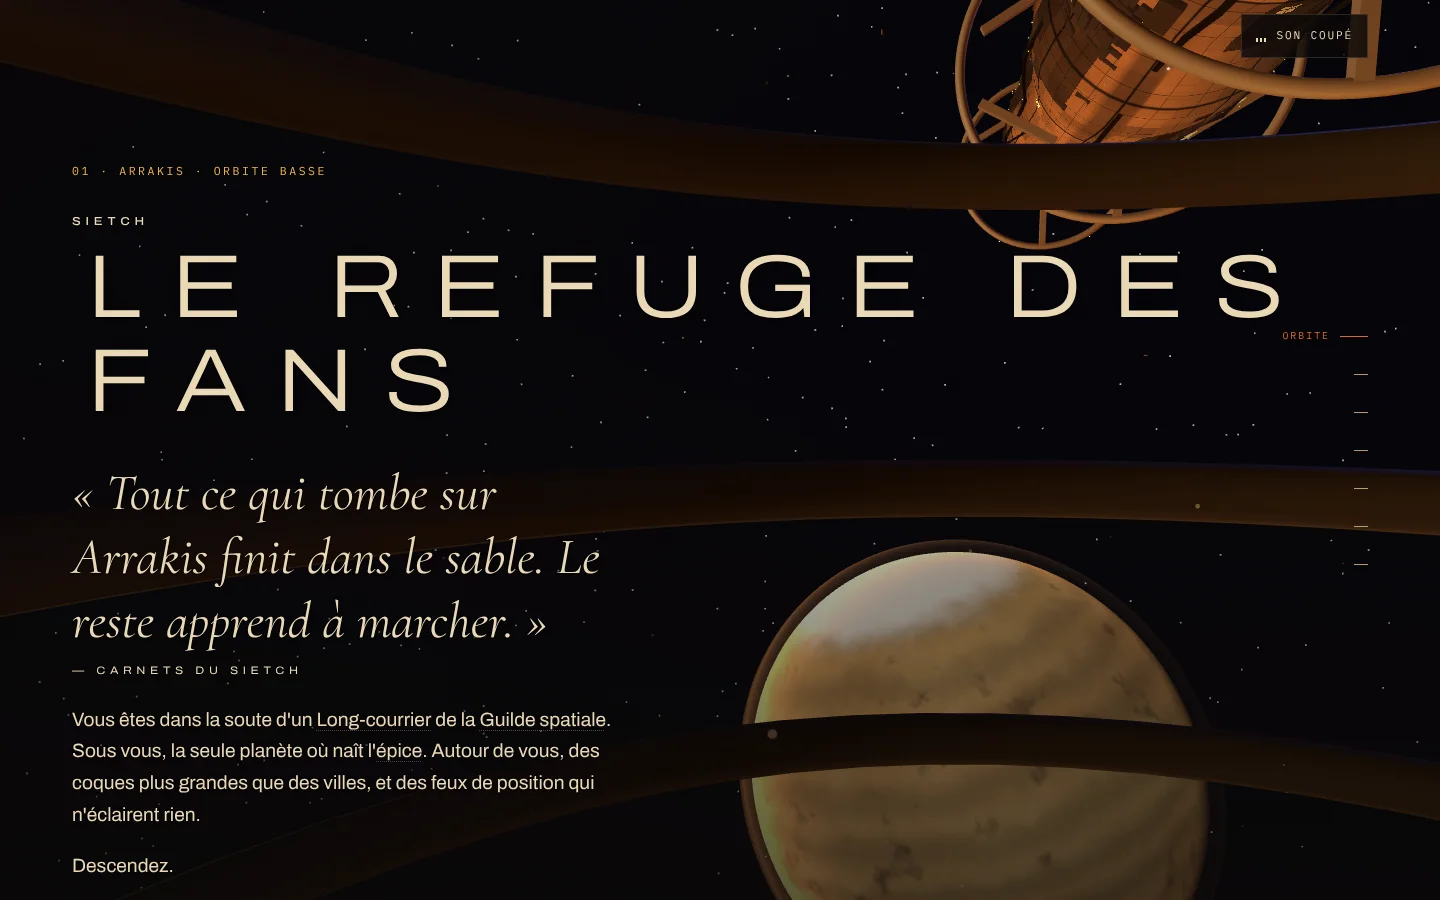
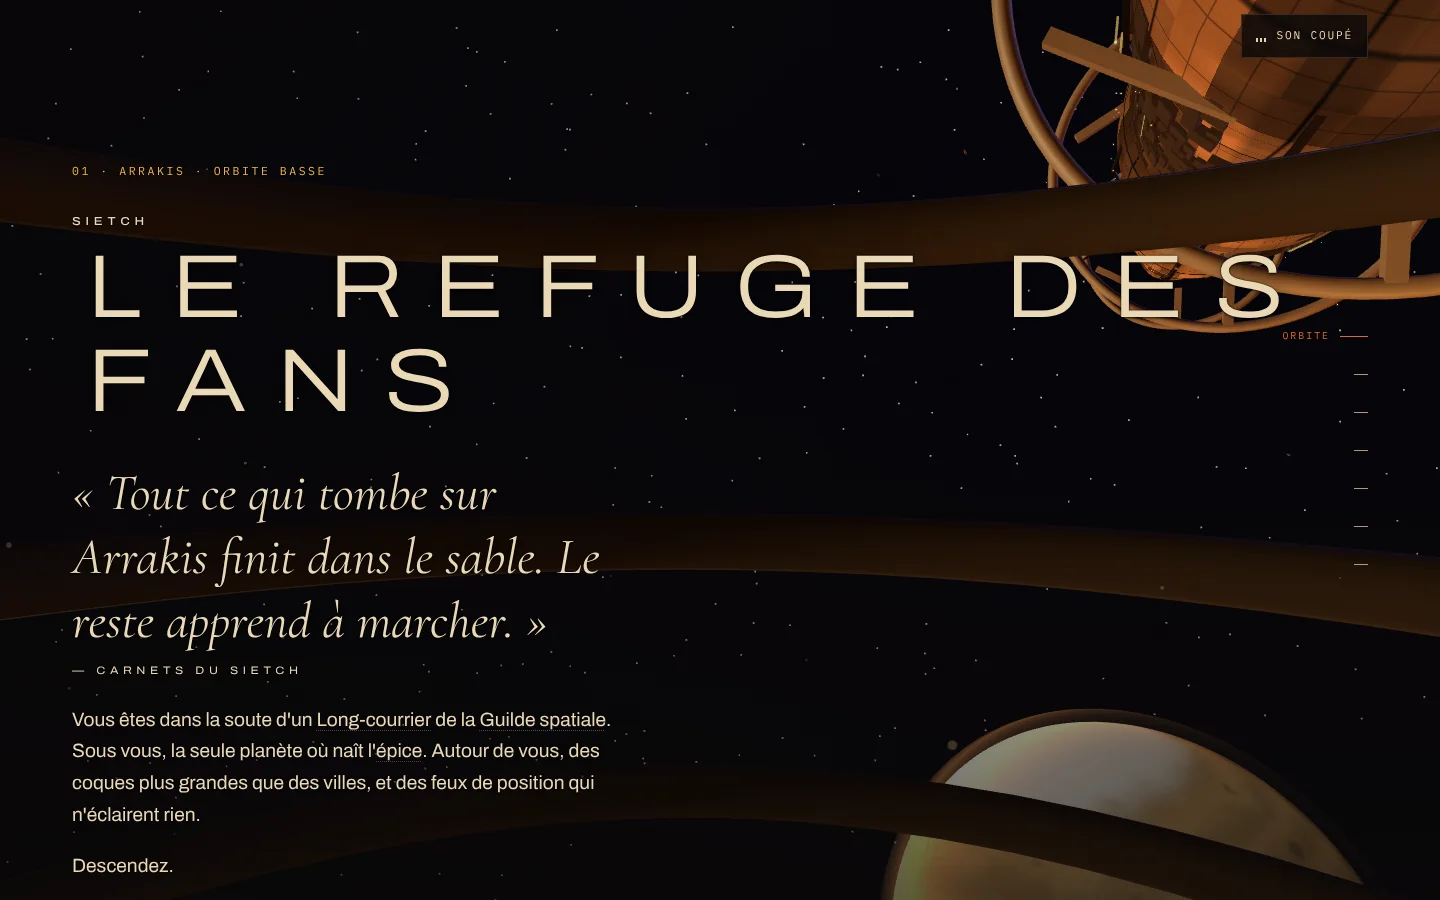
long-courrier (C2, lot 1, final) : caméra rapprochée de la coque (32 unités sous l'axe), fuseau monumental en haut à droite (bureau) et dans la bande au-dessus du titre (portrait), planète plus basse, regard qui remonte dès le début de la sortie ; allègements : coque à une octave de bruit, feux plaf
Claude-Session: https://claude.ai/code/session_01TmTFqFyVjB4u53bqWWJJJg

Changed region(s): [[0.5, 0.5289, 1.0, 1.0], [0.4062, 0.0, 1.0, 0.3733]]

diff --git a/src/world/createWorld.ts b/src/world/createWorld.ts
@@ -197,27 +197,32 @@ export function createWorld(canvas: HTMLCanvasElement, { tier }: WorldOptions): 
   collar.position.x = (T_BAY - 0.5) * SHIP_L;
   collar.rotation.y = Math.PI / 2;
   ship.add(collar);
-  const plotGeo = keep(new THREE.BoxGeometry(2.4, 1.4, 2.2));
+  const plots = new THREE.InstancedMesh(keep(new THREE.BoxGeometry(2.4, 1.4, 2.2)), collarMat, 12);
   for (let k = 0; k < 12; k++) {
     const a = (k / 12) * Math.PI * 2 + 0.26;
-    const plot = new THREE.Mesh(plotGeo, collarMat);
-    plot.position.set(collar.position.x, Math.cos(a) * (collarR + 1.6), Math.sin(a) * (collarR + 1.6));
-    plot.rotation.x = -a;
-    ship.add(plot);
+    dummy.position.set(collar.position.x, Math.cos(a) * (collarR + 1.6), Math.sin(a) * (collarR + 1.6));
+    dummy.rotation.set(-a, 0, 0, "XYZ");
+    dummy.scale.setScalar(1);
+    dummy.updateMatrix();
+    plots.setMatrixAt(k, dummy.matrix);
   }
-  // Mâts et antennes : fines tiges radiales, un feu blanc à éclats à leur sommet (ajouté aux feux plus bas).
+  plots.instanceMatrix.needsUpdate = true;
+  ship.add(plots);
+  // Mâts et antennes : fines tiges radiales (un seul appel de dessin), un feu blanc à éclats à leur sommet.
   const masts: [number, number, number][] = [[0.17, 0.9, 9], [0.26, 3.6, 12], [0.4, 5.2, 7], [0.52, 1.9, 14], [0.63, 0.3, 8], [0.74, 4.2, 11], [0.86, 2.6, 6], [0.46, 3.0, 5]];
-  const mastGeo = keep(new THREE.BoxGeometry(0.3, 1, 0.3));
+  const mastMesh = new THREE.InstancedMesh(keep(new THREE.BoxGeometry(0.3, 1, 0.3)), railMat, masts.length);
   const mastTips: number[] = [];
-  for (const [t, a, h] of masts) {
+  masts.forEach(([t, a, h], k) => {
     const base = hullR(t) + 1.5 * Math.sin(40 * t) * Math.sin(Math.PI * t);
-    const mast = new THREE.Mesh(mastGeo, railMat);
-    mast.position.set((t - 0.5) * SHIP_L, Math.cos(a) * (base + h / 2), Math.sin(a) * (base + h / 2));
-    mast.rotation.set(a, 0, 0, "XZY");
-    mast.scale.y = h;
-    ship.add(mast);
+    dummy.position.set((t - 0.5) * SHIP_L, Math.cos(a) * (base + h / 2), Math.sin(a) * (base + h / 2));
+    dummy.rotation.set(a, 0, 0, "XZY");
+    dummy.scale.set(1, h, 1);
+    dummy.updateMatrix();
+    mastMesh.setMatrixAt(k, dummy.matrix);
     mastTips.push((t - 0.5) * SHIP_L, Math.cos(a) * (base + h + 0.3), Math.sin(a) * (base + h + 0.3));
-  }
+  });
+  mastMesh.instanceMatrix.needsUpdate = true;
+  ship.add(mastMesh);
   // Bandes de hublots : fines lignes émissives le long de la coque (échelle et habitation), alignées sur les quartiers.
   const stripMat = keep(new THREE.MeshBasicMaterial({ color: 0xf2b544, transparent: true, opacity: 0.8 }));
   const stripGeo = keep(new THREE.BoxGeometry(1, 0.16, 0.16));
@@ -237,7 +242,7 @@ export function createWorld(canvas: HTMLCanvasElement, { tier }: WorldOptions): 
      travail près de la soute et des quartiers. Jamais une référence à un design existant. */
   const lightMat = keep(new THREE.ShaderMaterial({
     vertexShader: LIGHT_VERT, fragmentShader: LIGHT_FRAG, transparent: true, depthWrite: false, blending: THREE.AdditiveBlending,
-    uniforms: { uTime: { value: 0 }, uPixelRatio: { value: pixelRatio }, uFade: { value: 1 } },
+    uniforms: { uTime: { value: 0 }, uPixelRatio: { value: pixelRatio }, uFade: { value: 1 }, uMax: { value: pick(12, 9, 6) } }, // taille maximale d'un feu proche (pixels avant densité) : le halo coûte en remplissage
   }));
   type LightSpec = { x: number; y: number; z: number; r: number; g: number; b: number; size: number; seed: number };
   const lightList: LightSpec[] = [];
@@ -336,6 +341,7 @@ export function createWorld(canvas: HTMLCanvasElement, { tier }: WorldOptions): 
   const mouthGlow = new THREE.Mesh(keep(new THREE.CircleGeometry(MOUTH_R + 2, 48)), glowMat);
   mouthGlow.rotation.x = Math.PI / 2;
   mouthGlow.position.y = MOUTH_Y - 1.2;
+  mouthGlow.visible = tier !== "low"; // grand disque additif proche de la caméra : remplissage coûteux sur appareil faible
   bay.add(mouthGlow);
   bay.position.set(-20, 0, 22);
   space.add(bay);
@@ -556,21 +562,24 @@ export function createWorld(canvas: HTMLCanvasElement, { tier }: WorldOptions): 
       // En portrait, caméra plus à gauche et regard plus bas : le vaisseau tient dans le coin supérieur droit, au-dessus
       // du titre, loin de l'épigraphe et du paragraphe.
       const portrait = camera.aspect < 0.8;
-      const x0 = portrait ? -38 : -30;
+      // Départ : presque au centre de la soute, 32 unités sous l'axe du fuseau (la coque, ses panneaux et ses feux
+      // remplissent un quart de l'écran). Bureau : regard 20° à gauche et 6° vers le bas → le fuseau file en diagonale
+      // dans le quart supérieur droit, la colonne de texte reste libre. Portrait : regard 3° à droite et 8° vers le bas →
+      // le fuseau occupe la bande au-dessus du titre (0–22 % de la hauteur), la planète n'est qu'un limbe en bas.
+      const x0 = -18, yStart = -10;
       if (shuttleX0 !== x0) buildShuttles(x0);
-      const yStart = -22, yExit = -96, yOrbit = -420;
+      const yExit = -96, yOrbit = -420;
       const y = lerp(lerp(yStart, yExit, smoothstep(0, 1, exitT)), yOrbit, smoothstep(0, 1, orbitT) * entryT * 0 + smoothstep(0, 1, orbitT));
       wantPos.set(x0 + Math.sin(exitT * 1.3) * 5 + orbitT * 20, y, 24 + exitT * 18 + orbitT * 30);
-      // Regard : d'abord un point fixe devant, au niveau de la bouche (en descendant, le regard remonte vers elle),
-      // puis la planète en dessous.
       const look = smoothstep(0.15, 0.9, orbitT);
-      if (portrait) tmp.set(x0 + 17, -59, -136); else tmp.set(x0 - 36, -36, -140);
-      // En sortant, le regard remonte vers la bouche éclairée et le fuseau qu'on quitte.
-      tmp.lerp(wantTarget.set(x0 + (portrait ? 10 : 24), 30, -100), smoothstep(0.2, 1, exitT) * 0.85);
+      if (portrait) tmp.set(x0 + 9, yStart - 29, 24 - 165); else tmp.set(x0 - 69, yStart - 8, 24 - 156);
+      // En sortant, le regard remonte vers la bouche éclairée et le fuseau qu'on quitte (dès le début de la sortie,
+      // pour ne jamais le perdre de vue), puis bascule vers la planète.
+      tmp.lerp(wantTarget.set(x0 + (portrait ? 8 : 24), 30, -100), smoothstep(0, 0.9, exitT) * 0.9);
       tmp.lerp(wantTarget.set(0, -600, -200), look);
       wantTarget.copy(tmp);
-      // Planète : loin et basse au début (plus basse encore en portrait : sous le paragraphe), elle monte pendant l'entrée.
-      const planetY = lerp(-238, -250, smoothstep(0, 1, orbitT)) + entryT * 60 - (portrait ? 150 * (1 - orbitT) : 0);
+      // Planète : loin et basse au début (plus basse en portrait : sous le paragraphe), elle monte pendant l'entrée.
+      const planetY = lerp(-238, -250, smoothstep(0, 1, orbitT)) + entryT * 60 - (portrait ? 150 : 60) * (1 - orbitT);
       const planetZ = lerp(-440, -420, orbitT) + entryT * 150;
       planet.position.set(10, planetY, planetZ);
       halo.position.copy(planet.position);
@@ -626,7 +635,7 @@ export function createWorld(canvas: HTMLCanvasElement, { tier }: WorldOptions): 
       if (dust.visible) {
         dustMat.uniforms.uTime.value = time;
         dustMat.uniforms.uAlpha.value = 0.55 * (1 - smoothstep(0.45, 0.9, exitT));
-        dust.position.set(x0, -22, 24);
+        dust.position.set(x0, yStart, 24);
       }
       // Brouillard : l'espace est net ; la tempête l'épaissit, ocre.
       fogColor.copy(spaceFog).lerp(stormFog, stormT);

diff --git a/src/world/shaders.ts b/src/world/shaders.ts
@@ -275,7 +275,7 @@ export const HULL_FRAG = /* glsl */ `
     vec3 base = vec3(0.36, 0.30, 0.25) * (0.84 + 0.32 * idMid);
     base = mix(base, base * 0.5, dark);
     base *= (0.3 + 0.7 * grooveBig) * (0.62 + 0.38 * grooveMid) * (0.92 + 0.08 * fine);
-    base += (fbm2(vL.xy * 0.35) - 0.5) * 0.05;
+    base += (noise2(vL.xy * 0.35) - 0.5) * 0.06; /* usure : une octave suffit (quatre coûtaient cher en rendu logiciel) */
     /* deux longerons peints sombres, de la proue à la poupe */
     float spar = smoothstep(0.03, 0.06, abs(fract(ang / 3.14159 + 0.37) - 0.5));
     base *= 0.72 + 0.28 * spar;
@@ -302,7 +302,7 @@ export const HULL_FRAG = /* glsl */ `
  *  feu — un quart d'entre eux sont des éclats brefs, les autres un battement lent. Couleurs par sommet (aColor). */
 export const LIGHT_VERT = /* glsl */ `
   attribute float aSeed; attribute float aSize; attribute vec3 aColor;
-  uniform float uTime; uniform float uPixelRatio; uniform float uFade;
+  uniform float uTime; uniform float uPixelRatio; uniform float uFade; uniform float uMax;
   varying vec3 vC; varying float vA;
   void main() {
     vec4 mv = modelViewMatrix * vec4(position, 1.0);
@@ -314,7 +314,7 @@ export const LIGHT_VERT = /* glsl */ `
     float k = mix(steady, 0.06 + flash, strobe);
     vA = k * uFade;
     vC = aColor;
-    gl_PointSize = aSize * uPixelRatio * clamp(220.0 / depth, 1.6, 12.0) * (0.75 + 0.25 * k);
+    gl_PointSize = aSize * uPixelRatio * clamp(220.0 / depth, 1.6, uMax) * (0.75 + 0.25 * k);
     gl_Position = projectionMatrix * mv;
   }
 `;
